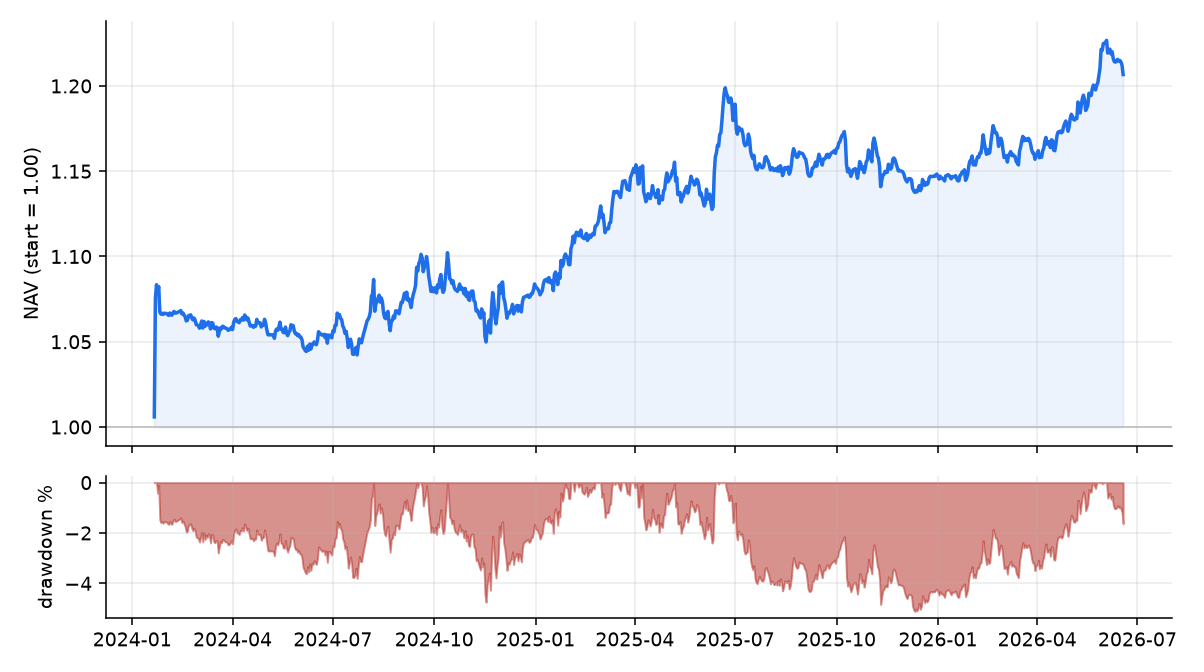
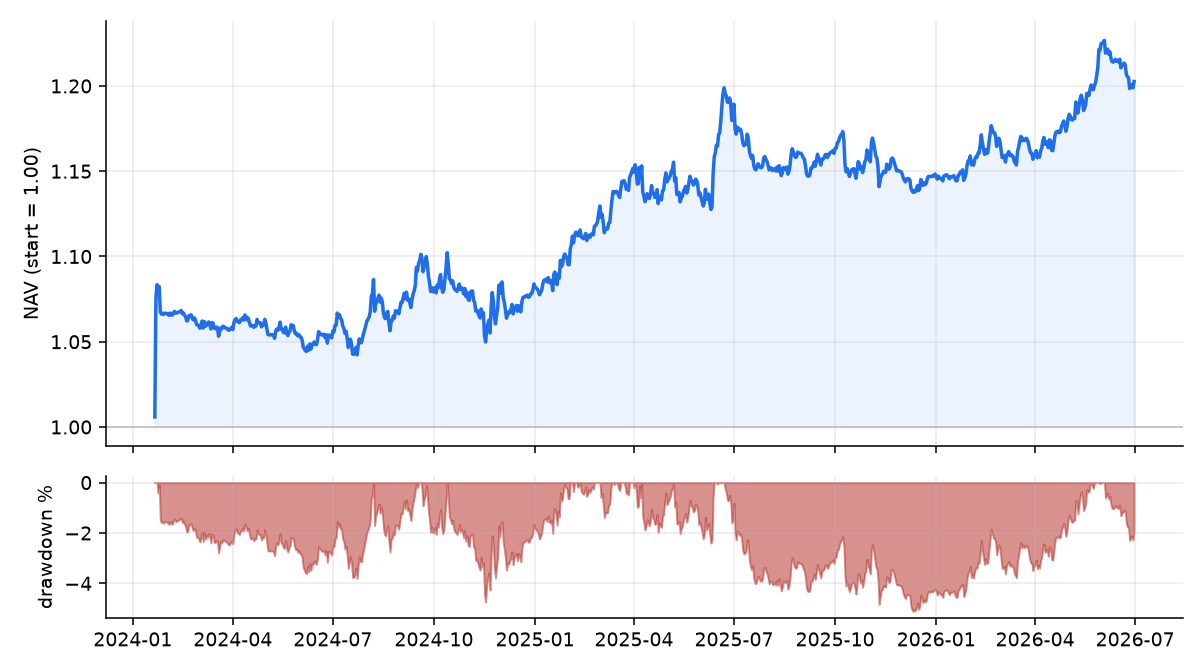
live: NAV update 2026-07-06T09:18Z

diff --git a/index.html b/index.html
@@ -3,7 +3,7 @@
 <title>Alpha Research — Live Book</title>
 <meta name="description" content="Live paper-traded NAV of the Alpha Research diversified risk-premium book: crypto carry/trend + FX carry/value, risk-parity, vol-targeted, net of costs. Updated daily.">
 <meta property="og:title" content="Alpha Research — Live Book">
-<meta property="og:description" content="Paper-traded NAV of the diversified risk-premium book, updated daily. Sharpe 0.89, NAV 1.207 since 2024-01-01.">
+<meta property="og:description" content="Paper-traded NAV of the diversified risk-premium book, updated daily. Sharpe 0.86, NAV 1.203 since 2024-01-01.">
 <meta property="og:type" content="website"><meta property="og:url" content="https://alpha.vineai.tech/">
 <meta property="og:image" content="https://alpha.vineai.tech/nav.png">
 <meta property="og:image:width" content="1204"><meta property="og:image:height" content="672">
@@ -36,18 +36,18 @@ footer{margin-top:46px;padding-top:16px;border-top:1px solid var(--rule);color:v
 <header>
   <div class="tag">Alpha Research · Live Book</div>
   <h1>The diversified risk-premium book, paper-traded live</h1>
-  <p class="sub">Inception 2024-01-01 · data through 2026-06-18 · updated 2026-07-05 09:18:04 UTC<br>
+  <p class="sub">Inception 2024-01-01 · data through 2026-06-30 · updated 2026-07-06 09:18:08 UTC<br>
   The capstone of the <a href="https://bryanvine.github.io/alpha-research/">Alpha Research</a> series
   (<a href="https://bryanvine.github.io/alpha-research/paper7.html">Paper 7</a>), tracked forward as a paper portfolio.</p>
 </header>
 
-<div class="cards"><div class="card"><div class="k">NAV</div><div class="v pos">1.207</div></div><div class="card"><div class="k">Total return</div><div class="v pos">+20.7%</div></div><div class="card"><div class="k">Annualized</div><div class="v pos">+5.5%</div></div><div class="card"><div class="k">Sharpe</div><div class="v pos">0.89</div></div><div class="card"><div class="k">Volatility</div><div class="v mut">6.3%</div></div><div class="card"><div class="k">Max drawdown</div><div class="v neg">-5.1%</div></div></div>
+<div class="cards"><div class="card"><div class="k">NAV</div><div class="v pos">1.203</div></div><div class="card"><div class="k">Total return</div><div class="v pos">+20.3%</div></div><div class="card"><div class="k">Annualized</div><div class="v pos">+5.3%</div></div><div class="card"><div class="k">Sharpe</div><div class="v pos">0.86</div></div><div class="card"><div class="k">Volatility</div><div class="v mut">6.3%</div></div><div class="card"><div class="k">Max drawdown</div><div class="v neg">-5.1%</div></div></div>
 
 <figure><img src="nav.png" alt="Live NAV equity curve and drawdown"></figure>
 
 <h2>Current target weights &amp; sleeve performance</h2>
 <table><thead><tr><th>Sleeve</th><th>Weight</th><th>Sharpe (since inception)</th></tr></thead>
-<tbody><tr><td>FX value</td><td>47.7%</td><td class="neg">-0.66</td></tr><tr><td>FX carry</td><td>37.6%</td><td class="pos">+0.66</td></tr><tr><td>Crypto funding carry</td><td>8.9%</td><td class="pos">+0.93</td></tr><tr><td>Crypto trend</td><td>5.8%</td><td class="pos">+0.18</td></tr></tbody></table>
+<tbody><tr><td>FX value</td><td>46.9%</td><td class="neg">-0.65</td></tr><tr><td>FX carry</td><td>38.8%</td><td class="pos">+0.57</td></tr><tr><td>Crypto funding carry</td><td>8.5%</td><td class="pos">+0.94</td></tr><tr><td>Crypto trend</td><td>5.8%</td><td class="pos">+0.18</td></tr></tbody></table>
 
 <div class="note"><strong>What this is.</strong> A risk-parity, 10%/yr-vol-targeted combination of the
 daily-tradable survivors from the research program — crypto funding carry, crypto trend, and G10 FX